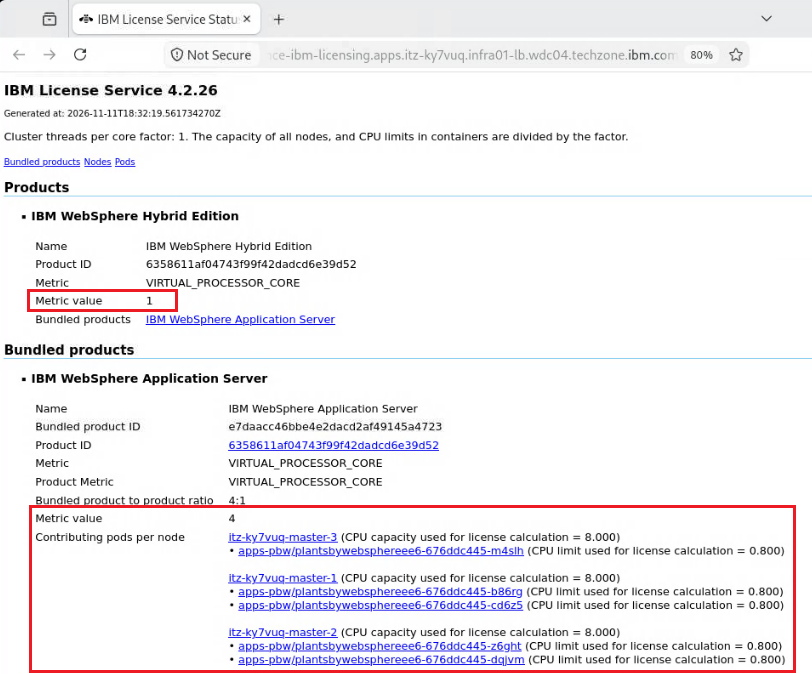
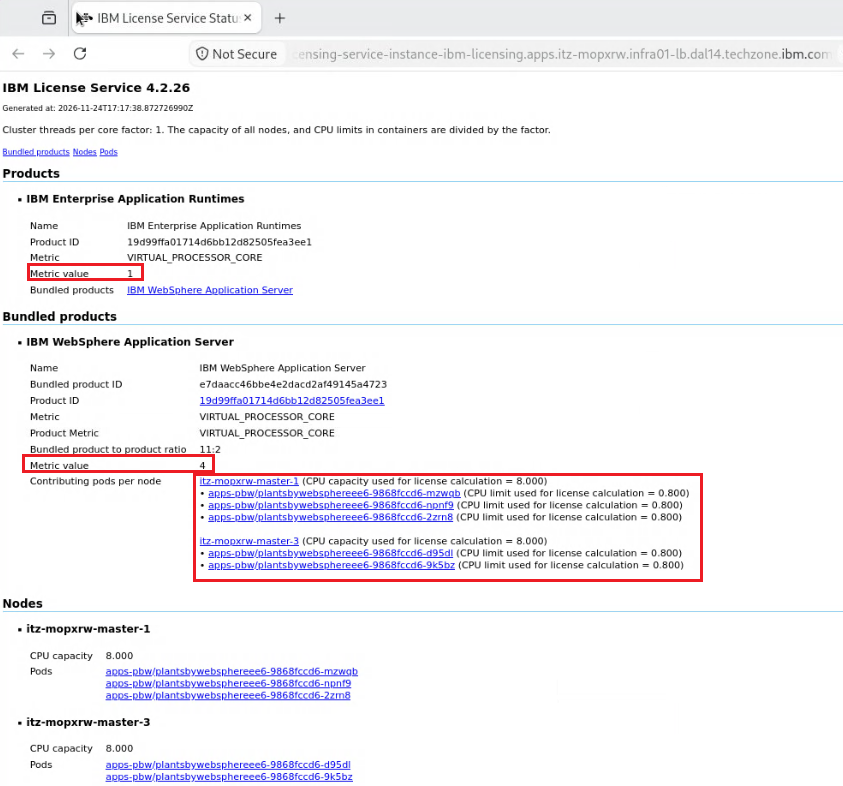
Update ILS Part 4

Changed region(s): [[0.0, 0.0, 0.9852, 1.0]]

diff --git a/ILS_README.md b/ILS_README.md
@@ -395,15 +395,7 @@ https://www.ibm.com/docs/en/cloud-paks/foundational-services/4.x?topic=registry-
 
 # Part 4: Track Liberty Deployments via IBM License Service 
 
-## 4.1: Deploy a Liberty instance without WebSphere Liberty Operator
-
-
-If you would deploy the WebSphere Liberty container without Liberty Operator, the pod would not be detected by IBM License Service as no annotations are set.
-
-
-## 4.2: Deploy a Liberty instance via WebSphere Liberty Operator
-
-## 4.2.1: Adjust the Plants application configuration files 
+## 4.1: Adjust the Plants application configuration files 
 
 1. Create a directory for the application configuration
 
@@ -512,8 +504,7 @@ If you would deploy the WebSphere Liberty container without Liberty Operator, th
 
     ___
 
-
- ### Use the IBM License Service (ILS)
+## 4.2: Deploy the Liberty application and track it using the IBM License Service (ILS)
 
 Start from scratch without any deployment:
 
@@ -552,7 +543,7 @@ Start from scratch without any deployment:
 
     ![ILS_Status-Page-1WLP-noLimit.png](./images/media/ILS_Status-Page-1WLP-noLimit.png)
     
-4. Let's take a look at the information
+    Let's take a look at the information
 
     - The product is annotated for WebSphere Application Server which is based on PVUs.
     - The node has 8 cores
@@ -627,7 +618,7 @@ Start from scratch without any deployment:
     
     - A CPU limit has been recognized, so only those cores will be licensed (here 0.8 cores).
     - The total number or cores running WebSphere Liberty Base is 0.8 which will be rounded up to 1 core, which results into a WAS metric value of 1.
-    - As only 1 core must be licensed and the EAR ratio 11:2 is applied, the EAR metric value is 2.
+    - As only 1 core must be licensed with WAS Base and the EAR ratio 11:2 is applied, the EAR metric value is 2.
 
 10. Add additional replicas.
 
@@ -635,7 +626,7 @@ Start from scratch without any deployment:
 
         gedit ~/Student/deploy/dev/application-cr.yaml &
 
-    In line 8, change the number of replica to 9.
+    In line 8, change the number of replica to 5.
 
     ![ILS_application-cr4](./images/media/ILS_application-cr4.png)
 
@@ -651,21 +642,76 @@ Start from scratch without any deployment:
     ![ILS_Status-Page-4WLP-Replica.png](./images/media/ILS_Status-Page-4WLP-Replica.png)
     
     - You can now see 5 pods that are contributing to the number of licenses, each with 0.8 cores.
-    - The total number or cores running WebSphere Liberty Base is 4 (5 x 0.8).
+    - The total number or cores running WebSphere Liberty Base is 4 (5 x 0.8) which results in a WAS metric value of 4.
     
-    - As only 4 core must be licensed and the ratio 4:1 is applied, the metric value is 1.
+    - As only 4 cores must be licensed with WAS Base and the ratio 11:2 is applied, the EAR metric value is 1.
 
-You can more details about the Liberty License tracking here:
-https://www.ibm.com/docs/en/was-liberty/base?topic=container-tracking-liberty-license-use-in-kubernetes
 
-This completes the section about IBM License Service.
+## 4.3: Deploy another Liberty application and track it using the IBM License Service (ILS)
 
-12. Review the **Technology Report** which is part of the migration plan and you will find out that the application only requires WebSphere Liberty Core
+The current deployment assumes that the application requires Liberty Base entitlements. But in fact, in only requires WebSphere Liberty Core.
 
-        /usr/bin/xdg-open ~/Student/migrationPlan/reports/plantsbywebsphereee6.ear_TechnologyReport.html 
+1. Review the **Technology Report** which is part of the migration plan and you will find out that the application only requires WebSphere Liberty Core.
+
+       /usr/bin/xdg-open ~/Student/migrationPlan/reports/plantsbywebsphereee6.ear_TechnologyReport.html 
 
     ![PBW_Liberty_Core.png](./images/media/PBW_Liberty_Core.png)
-    
+
+
+2. Let's create a second application and deployment, this time for Liberty Core.
+ 
+    1. Duplicate the existing deployment yaml files
+        cd ~/Student/deploy
+        cp -r dev stage
+
+    2. Tag the container image using the following podman command
+
+        imageReference="default-route-openshift-image-registry.${OCP_BASE_URL}/apps-pbw/pbw-app:1.0"
+        echo $imageReference
+
+        podman tag apps/pbw ${imageReference}
+
+6. Verify the image was tagged
+
+        podman images | grep pbw-app
+
+    ![](./images/media/pbw-apps-tagged.png)
+
+
+
+4. Login to the OpenShift internal registry so you can push the image 
+
+        oc registry login
+
+    The command will return the registry public hostname which should be similar to (but maybe with a different base URL)
+
+    `default-route-openshift-image-registry.apps.itz-e1vpbd.infra01-lb.dal14.techzone.ibm.com`
+
+
+7. Push the container image to OpenShift internal registry 
+
+       imageReference="default-route-openshift-image-registry.${OCP_BASE_URL}/apps-pbw/pbw-app:1.0"
+       echo $imageReference
+
+       podman push ${imageReference}
+
+
+
+
+
+    cd ~/Student/deploy/dev
+           echo $OCP_BASE_URL
+
+           imageReference="default-route-openshift-image-registry.${OCP_BASE_URL}/apps-pbw\/pbw-app:1.0"
+           echo $imageReference
+
+           sed -i "s|IMAGE_REFERENCE|${imageReference}|g" application-cr.yaml
+
+
+    pbw-app:1.0
+
+
+
     Adjust the application-cr.yaml to use Liberty Core only.
 
         edition: IBM WebSphere Application Server Liberty Core
@@ -674,6 +720,16 @@ This completes the section about IBM License Service.
 
     You can find more details at https://www.ibm.com/docs/en/was-liberty/core?topic=container-tracking-liberty-license-use-in-kubernetes
 
+
+
+
+
+
+
+This completes the section about IBM License Service.
+
+You can more details about the Liberty License tracking here:
+https://www.ibm.com/docs/en/was-liberty/base?topic=container-tracking-liberty-license-use-in-kubernetes
 
 
 
